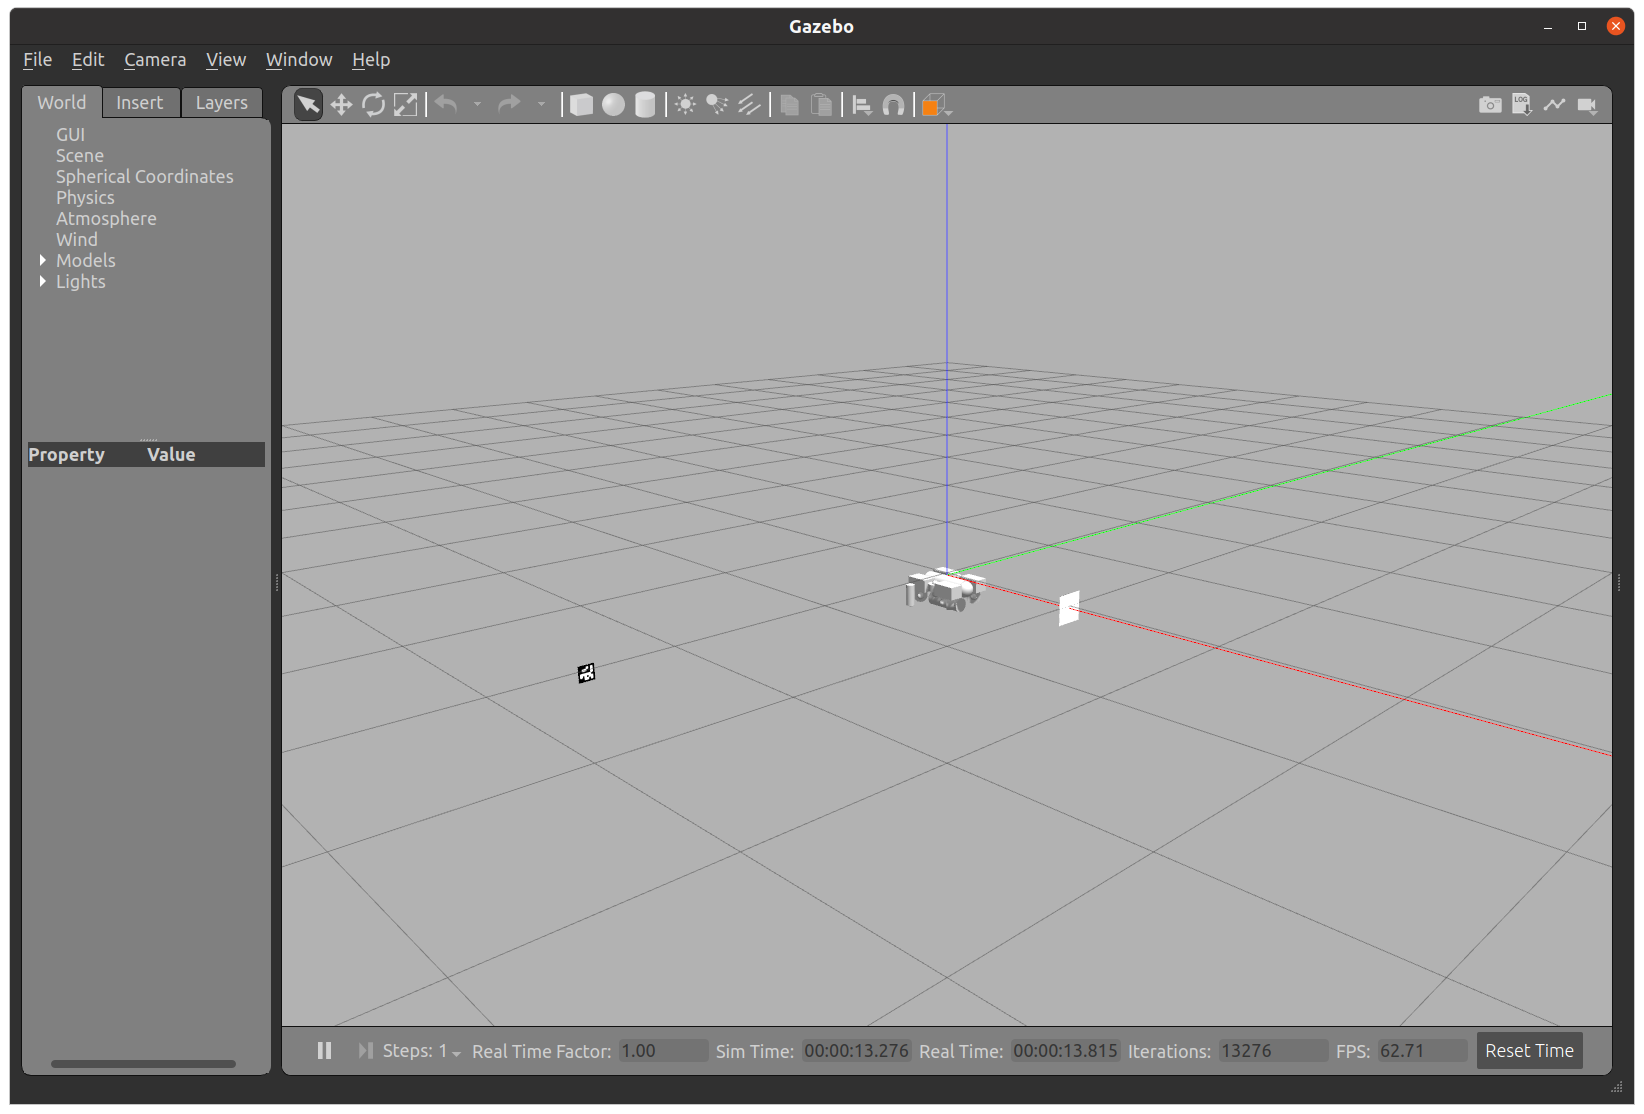
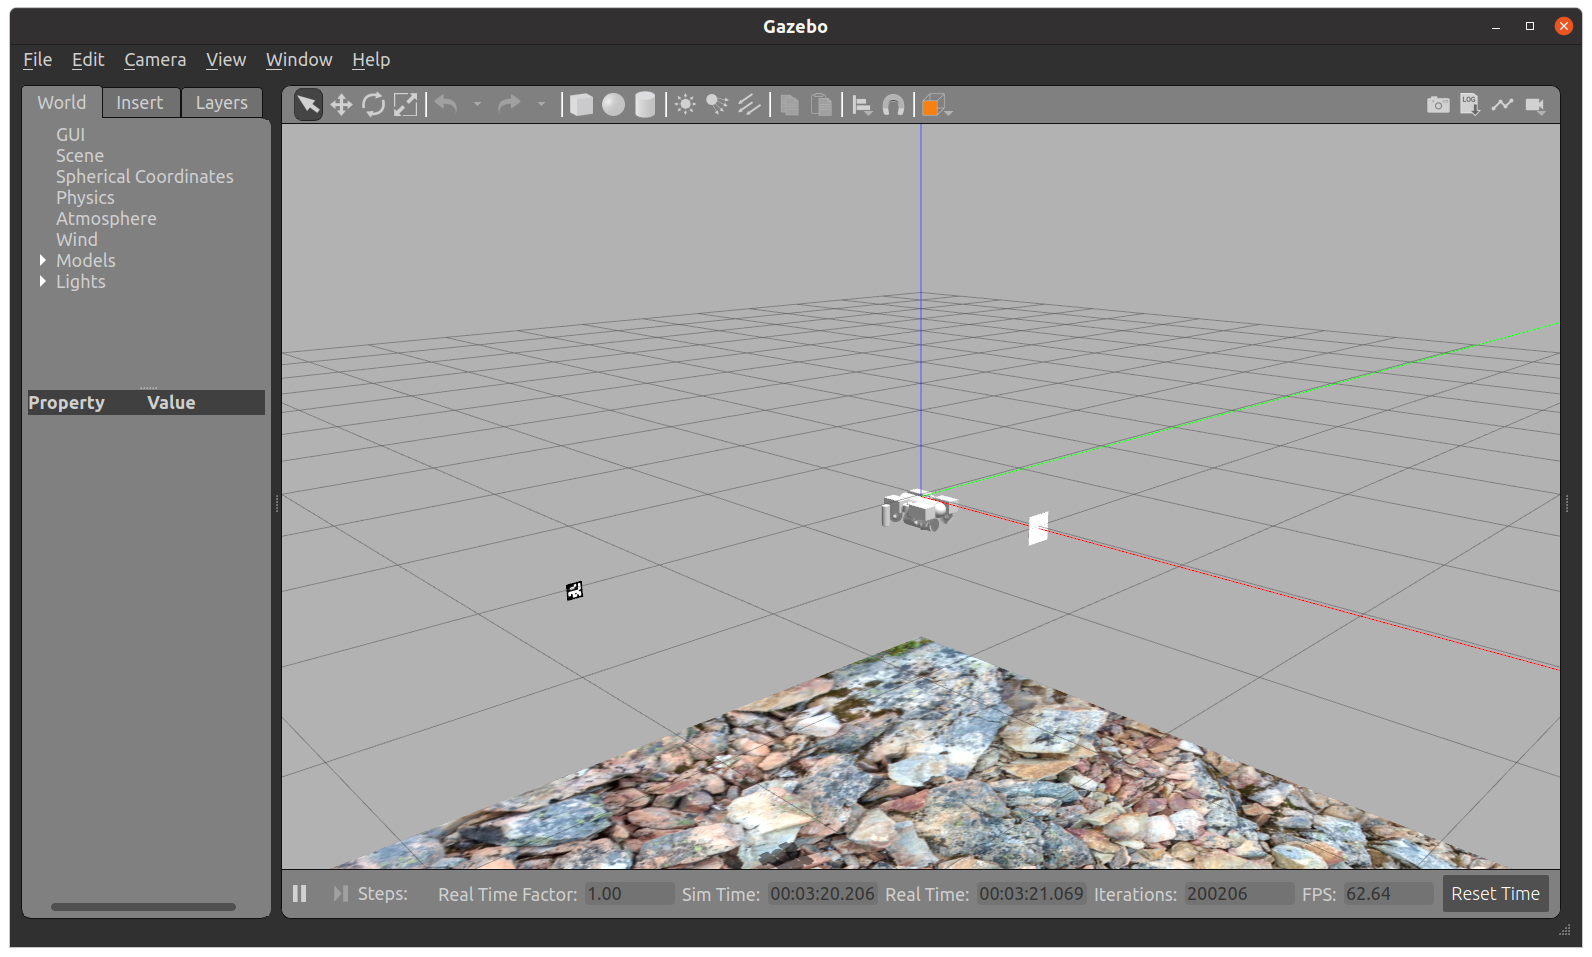
Update README files

diff --git a/README.md b/README.md
@@ -3,7 +3,7 @@
 Orca3 is a set of [ROS2](http://www.ros.org/) packages that provide basic AUV (Autonomous Underwater Vehicle)
 functionality for the [BlueRobotics BlueROV2](https://www.bluerobotics.com).
 
-Orca3 includes a `base_controller` node that responds to 3D 4DoF `cmd_vel` messages and generates thrust and odometry.
+Orca3 includes a `base_controller` node that responds to 3D 4DoF `/cmd_vel` messages and generates thrust and odometry.
 The BlueROV2 barometer sensor is used to hover at the target depth.
 See [orca_base](orca_base/README.md) for details.
 
@@ -51,7 +51,7 @@ This will start Gazebo, Rviz2 and a bunch of ROS2 nodes.
 If everything started correctly, you will see Gazebo and Rviz2 GUIs like this:
 
 ![Gazebo GUI](images/gazebo.png)
-![RVIZ2 GUI](images/rviz.png)
+![RVIZ2 vlam GUI](images/rviz_vlam.png)
 
 The surface of the water is at Z=0 and the AUV will be sitting at the surface.
 There's one ArUco marker directly in front of the AUV to provide a good initial pose.
@@ -74,10 +74,9 @@ The AUV will only trust a marker pose if the marker is within 2 meters, so it wi
 between the markers. As the AUV approaches a marker and gets a good pose, the dead-reckoning
 error is added to the map->odom transform.
 
-![Mission](images/mission.png)
+![Mission vlam](images/mission_vlam.png)
 
 ## Simulation with orb_slam2_ros
-
 
 In a terminal run:
 
@@ -90,15 +89,13 @@ source /usr/share/gazebo/setup.sh
 ros2 launch orca_bringup sim_launch.py gzclient:=True rviz:=True slam:=orb world:=empty
 ~~~
 
-This will start Gazebo, Rviz2 and a number of ROS2 nodes.
-If everything started correctly, you will see Gazebo and Rviz2 GUIs like this:
+This Rviz2 configuration is tuned for `orb_slam2_ros`:
 
-TODO gazebo pic
-TODO rviz pic
+![RVIZ2 ORB_SLAM2 GUI](images/rviz_orb.png)
 
 The surface of the water is at Z=0 and the AUV will be sitting at the surface.
-
-TODO
+The world contains a rocky seafloor 4 meters below the surface, indicated by the blue marker in Rviz2.
+The pointcloud shows the ORB features recognized by `orb_slam2_ros`.
 
 Execute a mission by calling the `FollowWaypoints` action in a second terminal:
 
@@ -113,11 +110,24 @@ ros2 action send_goal /FollowWaypoints nav2_msgs/action/FollowWaypoints "{poses:
 ]}"
 ~~~ 
 
-This mission will dive to -2.5 meters and move in a 6m x 6m box.
+![Mission ORB_SLAM2](images/mission_orb.png)
 
-TODO
+This mission will dive to -2.5 meters and move in a 6m x 6m square.
+The AUV has a good view of the seafloor, and `orb_slam2_ros` runs at the camera frame rate so the map->odom transform
+is published at 30fps. There is some odometry error which accumulates in the map->odom transform.
+You should notice a loop closure when the square is completed. The adjustment is very small.
 
-![Mission](images/mission.png)
+~~~
+[orb_slam2_ros_stereo-12] Loop detected!
+[orb_slam2_ros_stereo-12] Local Mapping STOP
+[orb_slam2_ros_stereo-12] Local Mapping RELEASEStarting Global Bundle Adjustment
+[orb_slam2_ros_stereo-12] 
+[orb_slam2_ros_stereo-12] Global Bundle Adjustment finished
+[orb_slam2_ros_stereo-12] Updating map ...
+[orb_slam2_ros_stereo-12] Local Mapping STOP
+[orb_slam2_ros_stereo-12] Local Mapping RELEASE
+[orb_slam2_ros_stereo-12] Map updated!
+~~~
 
 ## Packages
 

diff --git a/orca_localize/README.md b/orca_localize/README.md
@@ -1,9 +1,5 @@
 # Orca3 Localization
 
-Orca3 is designed for the [BlueRobotics BlueROV2](https://bluerobotics.com/store/rov/bluerov2/),
-a simple but powerful ROV (Remotely Operated Vehicle) with two vertical thrusters and 
-four vectored horizontal thrusters. See [orca_gazebo](../orca_gazebo) for more information.
-
 Perhaps the biggest challenge in underwater robotics is localization:
 * radio signals (e.g., GPS) are absorbed rapidly in water, particularly seawater
 * you often can't see the seafloor
@@ -13,7 +9,7 @@ Perhaps the biggest challenge in underwater robotics is localization:
 
 Orca3 supports two SLAM (Simultaneous Localization And Mapping) systems:
 * [fiducial_vlam](https://github.com/ptrmu/fiducial_vlam) looks for ArUco markers in the environment
-  using the forward-facing camera. 
+  using the forward-facing camera. This is useful for test environments like pools.
 * [orb_slam2_ros](https://github.com/clydemcqueen/orb_slam_2_ros/tree/clyde_rotate_pointcloud) looks for ORB features
   along the seafloor. It is configured to use a custom down-facing stereo camera. This works well
   in simulation, but it has not been tested in the field.
@@ -21,8 +17,8 @@ Orca3 supports two SLAM (Simultaneous Localization And Mapping) systems:
 ## FiducialLocalizer
 
 The `FiducialLocalizer` node does the following:
-* subscribe to `/fiducial_observations`, a list of marker observations, and `/forward_camera/camera_pose`,
-the pose of the camera generated by solvePnP or GTSAM
+* subscribe to `/fiducial_observations` (a list of marker observations) and `/forward_camera/camera_pose`
+  (the pose of the camera generated by solvePnP or GTSAM)
 * reject poses generated by markers that are too far away (~2m). This avoids unstable solutions.
 * calculate the map->base_link transform 
 * publish the map->odom transform

diff --git a/orca_base/README.md b/orca_base/README.md
@@ -8,17 +8,16 @@ four vectored horizontal thrusters. See [orca_gazebo](../orca_gazebo) for more i
 
 The `BaseController` node does the following:
 * subscribe to `/cmd_vel` from the Nav2 system
-* predict motion using a constant acceleration (trapezoidal velocity) model. Roll and pitch are not modeled
-* publish odometry on `/odom`, and broadcast the odom->base_link transform
+* predict motion using a constant acceleration (trapezoidal velocity) model. Roll and pitch are not modeled.
+* publish odometry on `/accel`, `/pose`, `/vel` and `/odom`, and broadcast the odom->base_link transform
 * subscribe to `/barometer` and run a PID controller to hold depth at the target value
-* calculate required thrust forces (see below) and publish `/thrust` messages for the Gazebo simulation
+* calculate required thrust forces and publish `/thrust` messages for the Gazebo simulation
 
 Thrust force includes these components:
-* thrust to effect the target acceleration
-* thrust to counteract drag at the predicted velocity. I've estimated the drag of the BlueROV2 frame, but this is very rough,
+* thrust due to acceleration
+* thrust to counteract the predicted drag. I've estimated the drag of the BlueROV2 frame, but this is very rough,
 and each actual AUV will have different drag properties.
-* static hover thrust to hold depth at the target position
-* output of the depth PID controller
+* thrust to hold depth, this includes a static component based on buoyancy and the output of the PID controller
 
 ### Parameters
 

diff --git a/orca_description/README.md b/orca_description/README.md
@@ -17,4 +17,6 @@ source /opt/ros/$ROS_DISTRO/setup.bash
 # Run in orca_description/urdf directory
 cd src/orca3/orca_description/urdf
 python3 /opt/ros/$ROS_DISTRO/bin/xacro orca.urdf.xacro SIM_MODE:=hw6 > hw6.urdf
+python3 /opt/ros/$ROS_DISTRO/bin/xacro orca.urdf.xacro SIM_MODE:=slam_test > slam_test.urdf
+python3 /opt/ros/$ROS_DISTRO/bin/xacro orca.urdf.xacro SIM_MODE:=hw7 > hw7.urdf
 ~~~
